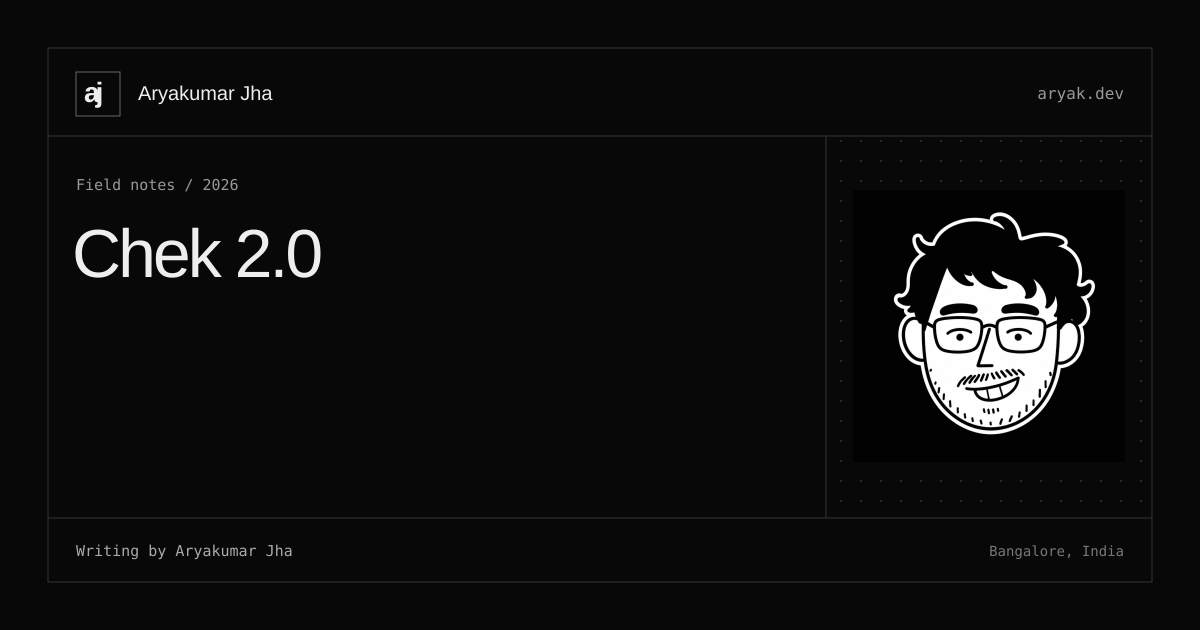
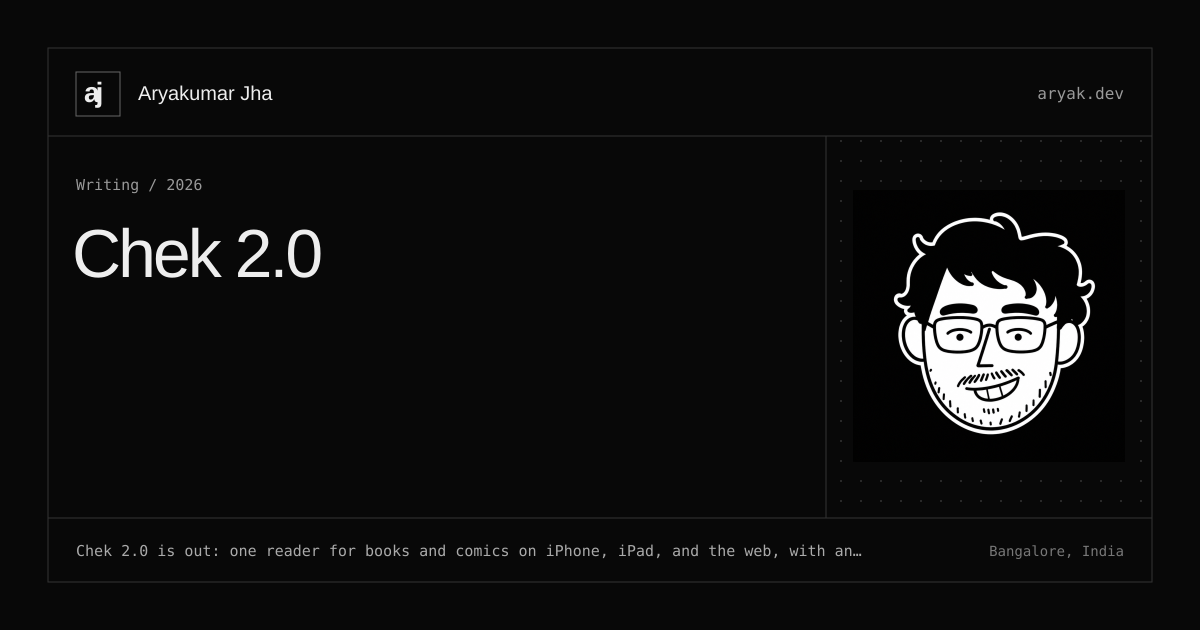
refactor(blog): load posts as a content collection and call it Writing
Posts now come from getCollection('blog') with the glob loader and a
schema of title, shortTitle, description, date and updated; summary,
excerpt and tags are gone. Post pages render with render() and add
dateModified, mainEntityOfPage, publisher, breadcrumbs and article
meta tags. The section is called Writing everywhere, and post social
images show the description with a Writing / year label.

Claude-Session: https://claude.ai/code/session_017QMGXvytgNJNJMBiViznSf

diff --git a/src/utils/blog.ts b/src/utils/blog.ts
@@ -1,45 +1,12 @@
-export type BlogFrontmatter = {
-  excerpt?: string;
-  summary?: string;
-  title: string;
-  shortTitle?: string;
-  date: string;
-  tags?: string;
-};
+import { getCollection, type CollectionEntry } from "astro:content";
 
-type MarkdownModule = {
-  frontmatter: BlogFrontmatter;
-  Content: any;
-};
+export type BlogPost = CollectionEntry<"blog">;
 
-const modules = import.meta.glob("../content/blog/*.md", {
-  eager: true,
-}) as Record<string, MarkdownModule>;
-
-export type BlogPost = {
-  slug: string;
-  frontmatter: BlogFrontmatter;
-  Content: MarkdownModule["Content"];
-};
-
-function toSlug(path: string) {
-  const last = path.split("/").pop() ?? "";
-  return last.replace(/\.md$/, "");
+/** Published posts, newest first. The entry id is the file name, which is the URL slug. */
+export async function getAllPosts(): Promise<BlogPost[]> {
+  const posts = await getCollection("blog");
+  return posts.sort((a, b) => +b.data.date - +a.data.date);
 }
 
-const ALL_POSTS: BlogPost[] = Object.entries(modules)
-  .map(([path, mod]) => ({
-    slug: toSlug(path),
-    frontmatter: mod.frontmatter,
-    Content: mod.Content,
-  }))
-  .filter((p) => Boolean(p.slug))
-  .sort((a, b) => {
-    const ad = +new Date(a.frontmatter.date);
-    const bd = +new Date(b.frontmatter.date);
-    return bd - ad;
-  });
-
-export function getAllPosts() {
-  return ALL_POSTS;
-}
+/** When a post last changed, for feeds, sitemaps and structured data. */
+export const lastModified = (post: BlogPost) => post.data.updated ?? post.data.date;

diff --git a/src/content.config.ts b/src/content.config.ts
@@ -1,14 +1,15 @@
-import { defineCollection, z } from "astro:content";
+import { defineCollection } from "astro:content";
+import { glob } from "astro/loaders";
+import { z } from "astro/zod";
 
 const blog = defineCollection({
-  type: "content",
+  loader: glob({ pattern: "**/*.md", base: "./src/content/blog" }),
   schema: z.object({
     title: z.string(),
     shortTitle: z.string().optional(),
-    excerpt: z.string().optional(),
-    summary: z.string().optional(),
-    date: z.string(),
-    tags: z.string().optional(),
+    description: z.string(),
+    date: z.coerce.date(),
+    updated: z.coerce.date().optional(),
   }),
 });
 

diff --git a/src/content/blog/oore-build-public-alpha.md b/src/content/blog/oore-build-public-alpha.md
@@ -1,10 +1,8 @@
 ---
-summary: "Why I built a self-hosted release workflow for Flutter, and why I’m sharing it."
-excerpt: "I built Oore CI for my own Flutter release workflow, and I am now opening it up in public alpha for anyone dealing with similar mobile CI pain."
 title: "Oore CI Is Public Alpha"
 shortTitle: "Oore CI Alpha"
+description: "I built Oore CI for my own Flutter release workflow, and I am now opening it up in public alpha for anyone dealing with similar mobile CI pain."
 date: "2026-02-18T08:35:00.000Z"
-tags: "Oore CI, Flutter, CI/CD, Mobile DevOps, Rust, Self-hosted"
 ---
 
 I’m opening **Oore CI** in **public alpha** today.

diff --git a/src/content/blog/chek-2.md b/src/content/blog/chek-2.md
@@ -1,10 +1,8 @@
 ---
-summary: "Chek 2.0 is out on the App Store, and Chek now runs on the web."
-excerpt: "Chek 2.0 is out: one reader for books and comics on iPhone, iPad, and the web, with an optional self-hosted server."
 title: "Chek 2.0: Just One More Chapter"
 shortTitle: "Chek 2.0"
+description: "Chek 2.0 is out: one reader for books and comics on iPhone, iPad, and the web, with an optional self-hosted server."
 date: "2026-10-28T21:30:00.000Z"
-tags: "Chek, iOS, Swift, Rust, Self-hosted, Reading"
 ---
 
 <figure class="post-hero">
